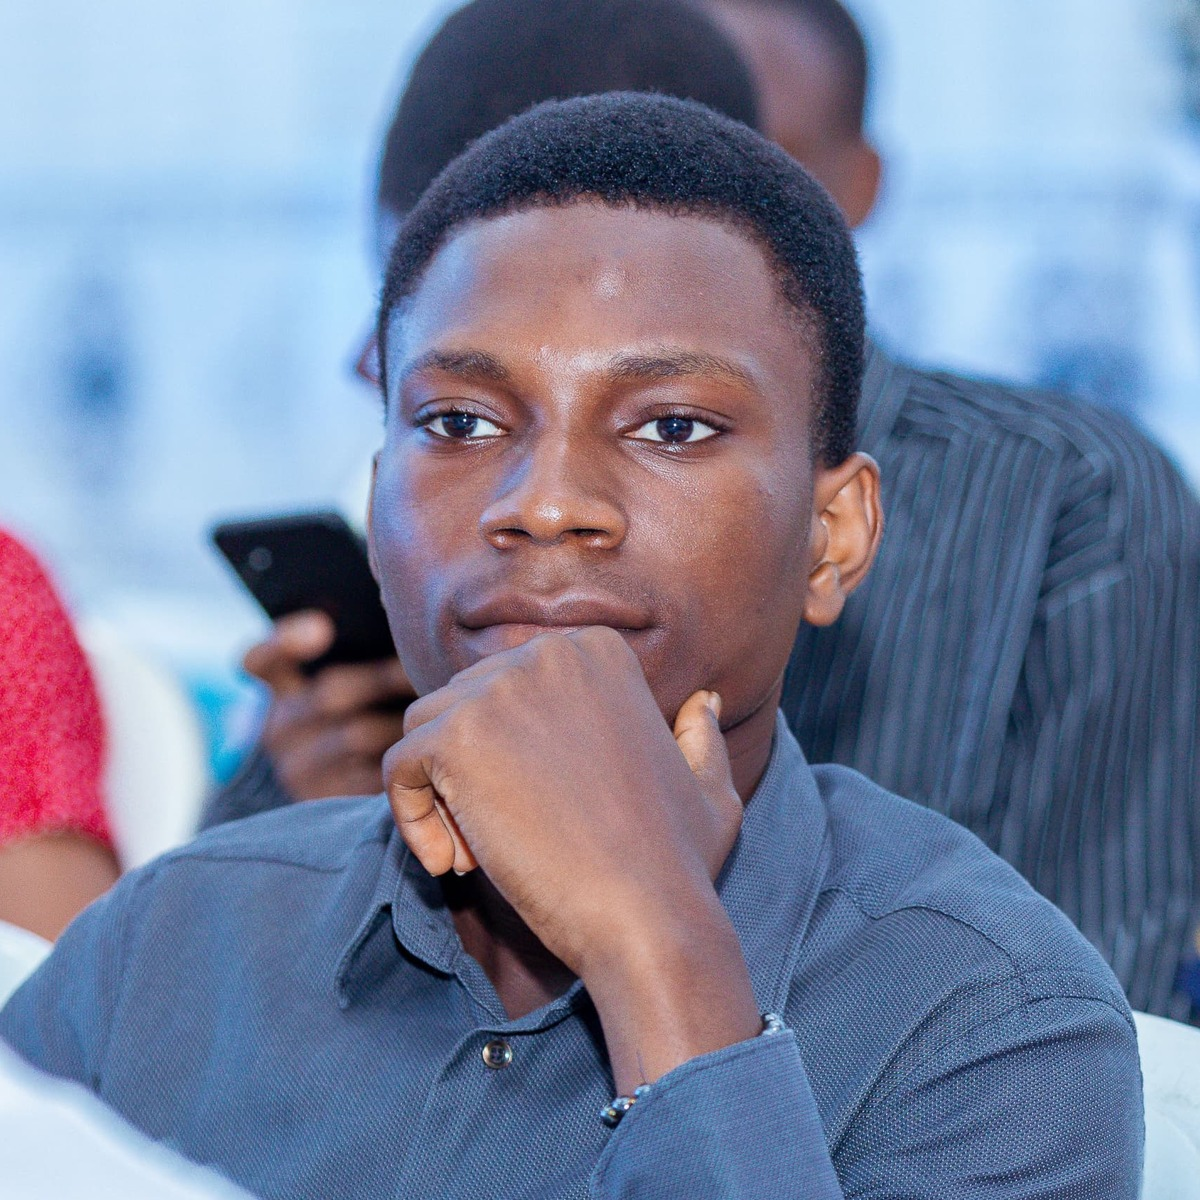
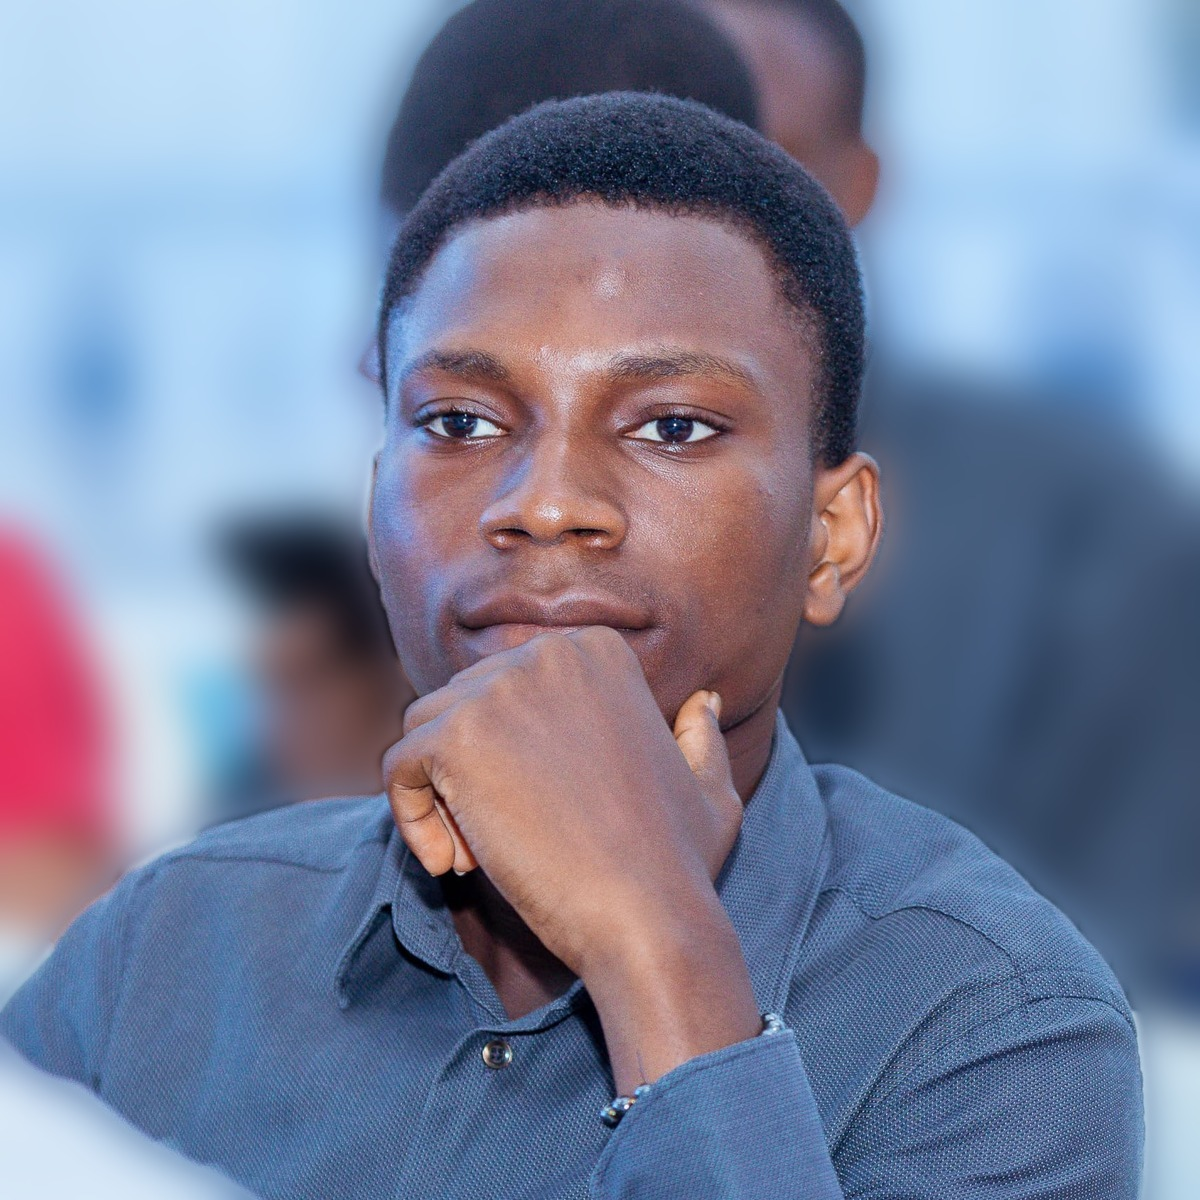
Équipe : José Pascaël Agbo, Coordinateur du Cercle des Lauréats ; arrière-plans adoucis sur les photos d'Audrey, José et Ezékias
Claude-Session: https://claude.ai/code/session_01F8np9tRxhfCRNNLp2MeqNs

diff --git a/public/qui-sommes-nous/index.html b/public/qui-sommes-nous/index.html
@@ -186,7 +186,7 @@
       <div class="people-card reveal"><img src="/assets/img/equipe/gracia-ahro.jpg" alt="Gracia Ahro" class="people-photo" loading="lazy"><h3>Gracia Ahro</h3><p>Chargée de la logistique</p></div>
       <div class="people-card reveal"><img src="/assets/img/equipe/lolita-ouinsavi.jpg" alt="Lolita Ouinsavi" class="people-photo" loading="lazy"><h3>Lolita Ouinsavi</h3><p>Chargée des relations extérieures</p></div>
       <div class="people-card reveal"><img src="/assets/img/equipe/audrey-bonnialy.jpg" alt="Audrey Bonnialy" class="people-photo" loading="lazy"><h3>Audrey Bonnialy</h3><p>Chargée des Partenariats & du Mécénat</p></div>
-      <div class="people-card reveal"><img src="/assets/img/equipe/jose-pascael-agbo.jpg" alt="José Pascaël Agbo" class="people-photo" loading="lazy"><h3>José Pascaël Agbo</h3><p>Président du Cercle des Lauréats</p></div>
+      <div class="people-card reveal"><img src="/assets/img/equipe/jose-pascael-agbo.jpg" alt="José Pascaël Agbo" class="people-photo" loading="lazy"><h3>José Pascaël Agbo</h3><p>Coordinateur du Cercle des Lauréats</p></div>
       <div class="people-card reveal"><img src="/assets/img/equipe/ezekias-gbesse.jpg" alt="Ezékias Gbessé" class="people-photo" loading="lazy"><h3>Ezékias Gbessé</h3><p>Ambassadeur Jeunesse & 300 Voix</p></div>
     </div>
     <button type="button" class="equipe-fleche equipe-suiv" aria-label="Membres suivants" data-defile="1">›</button>
